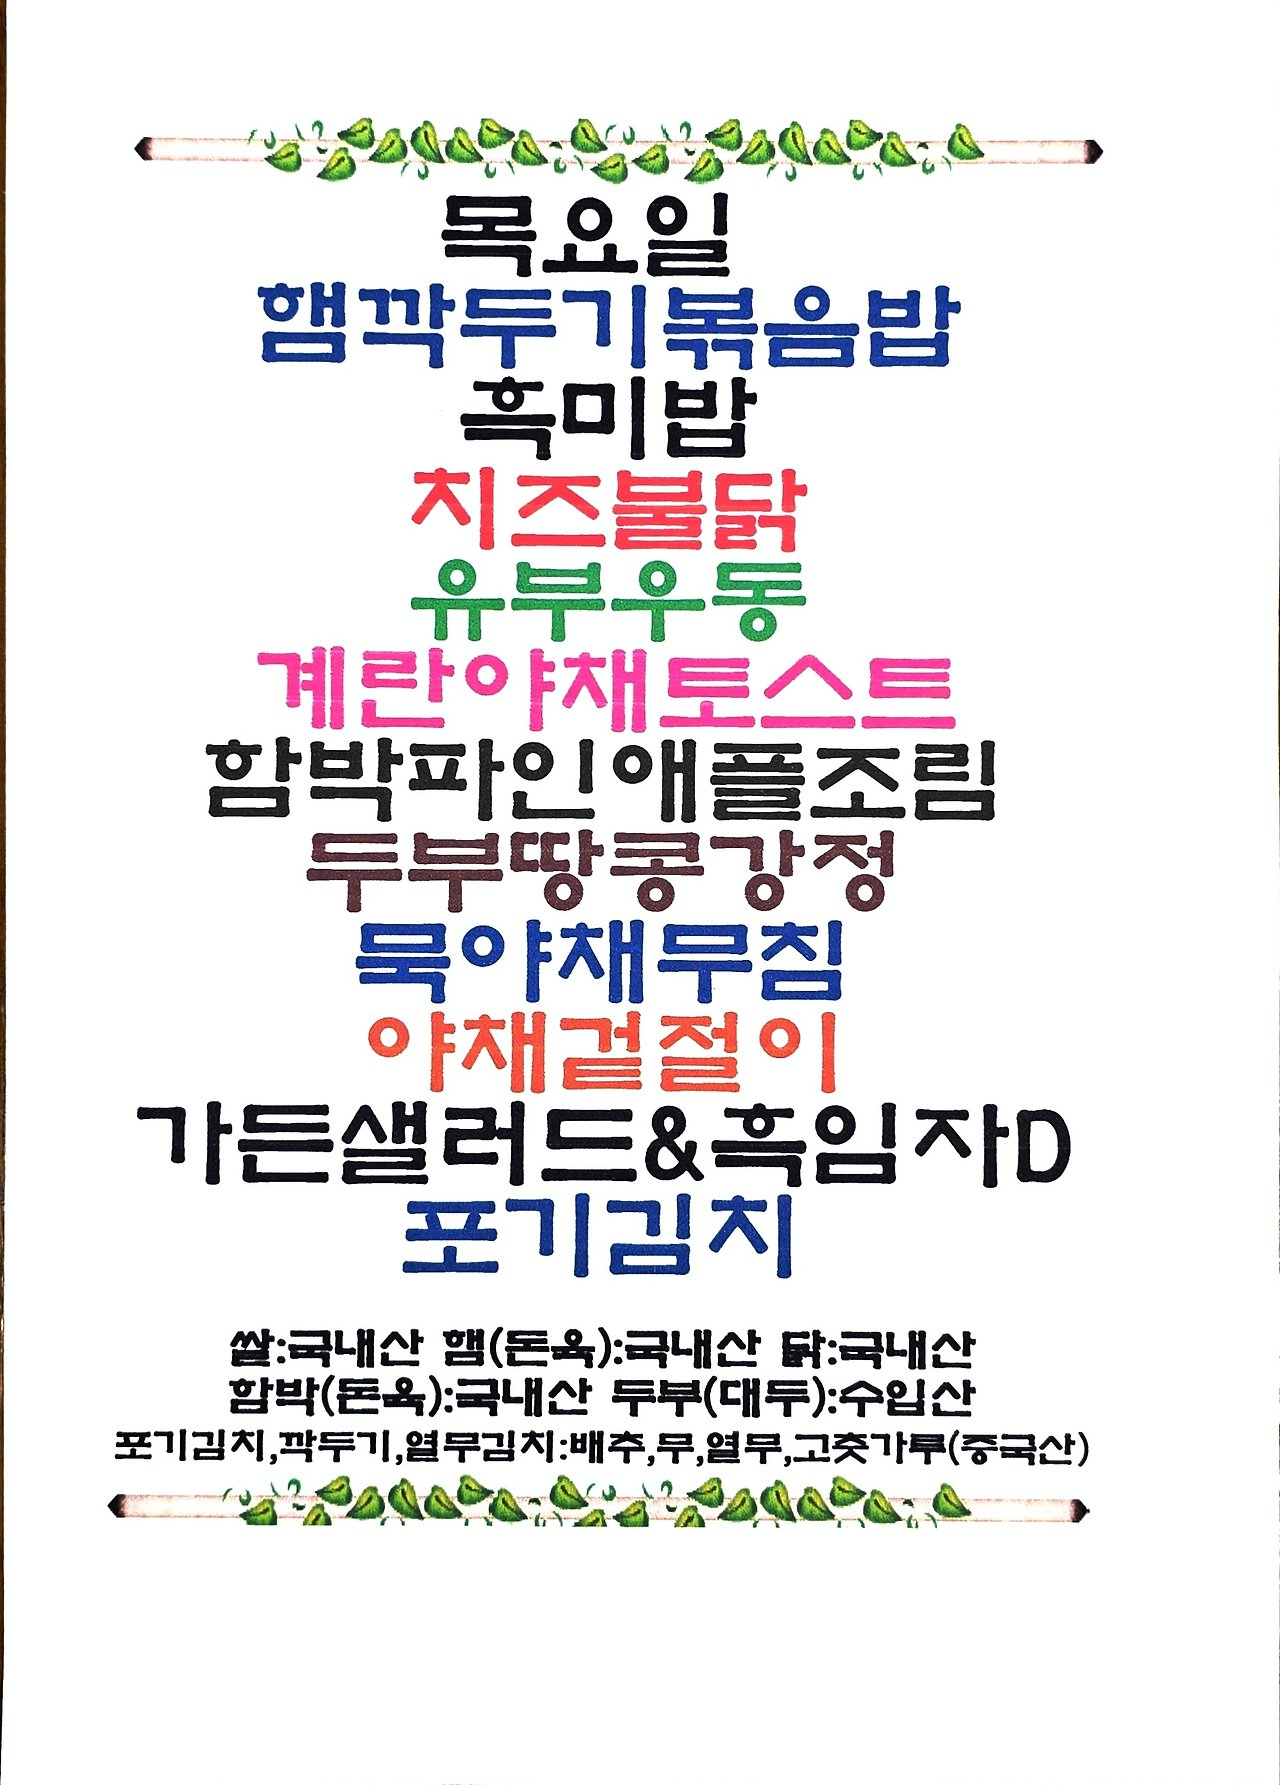
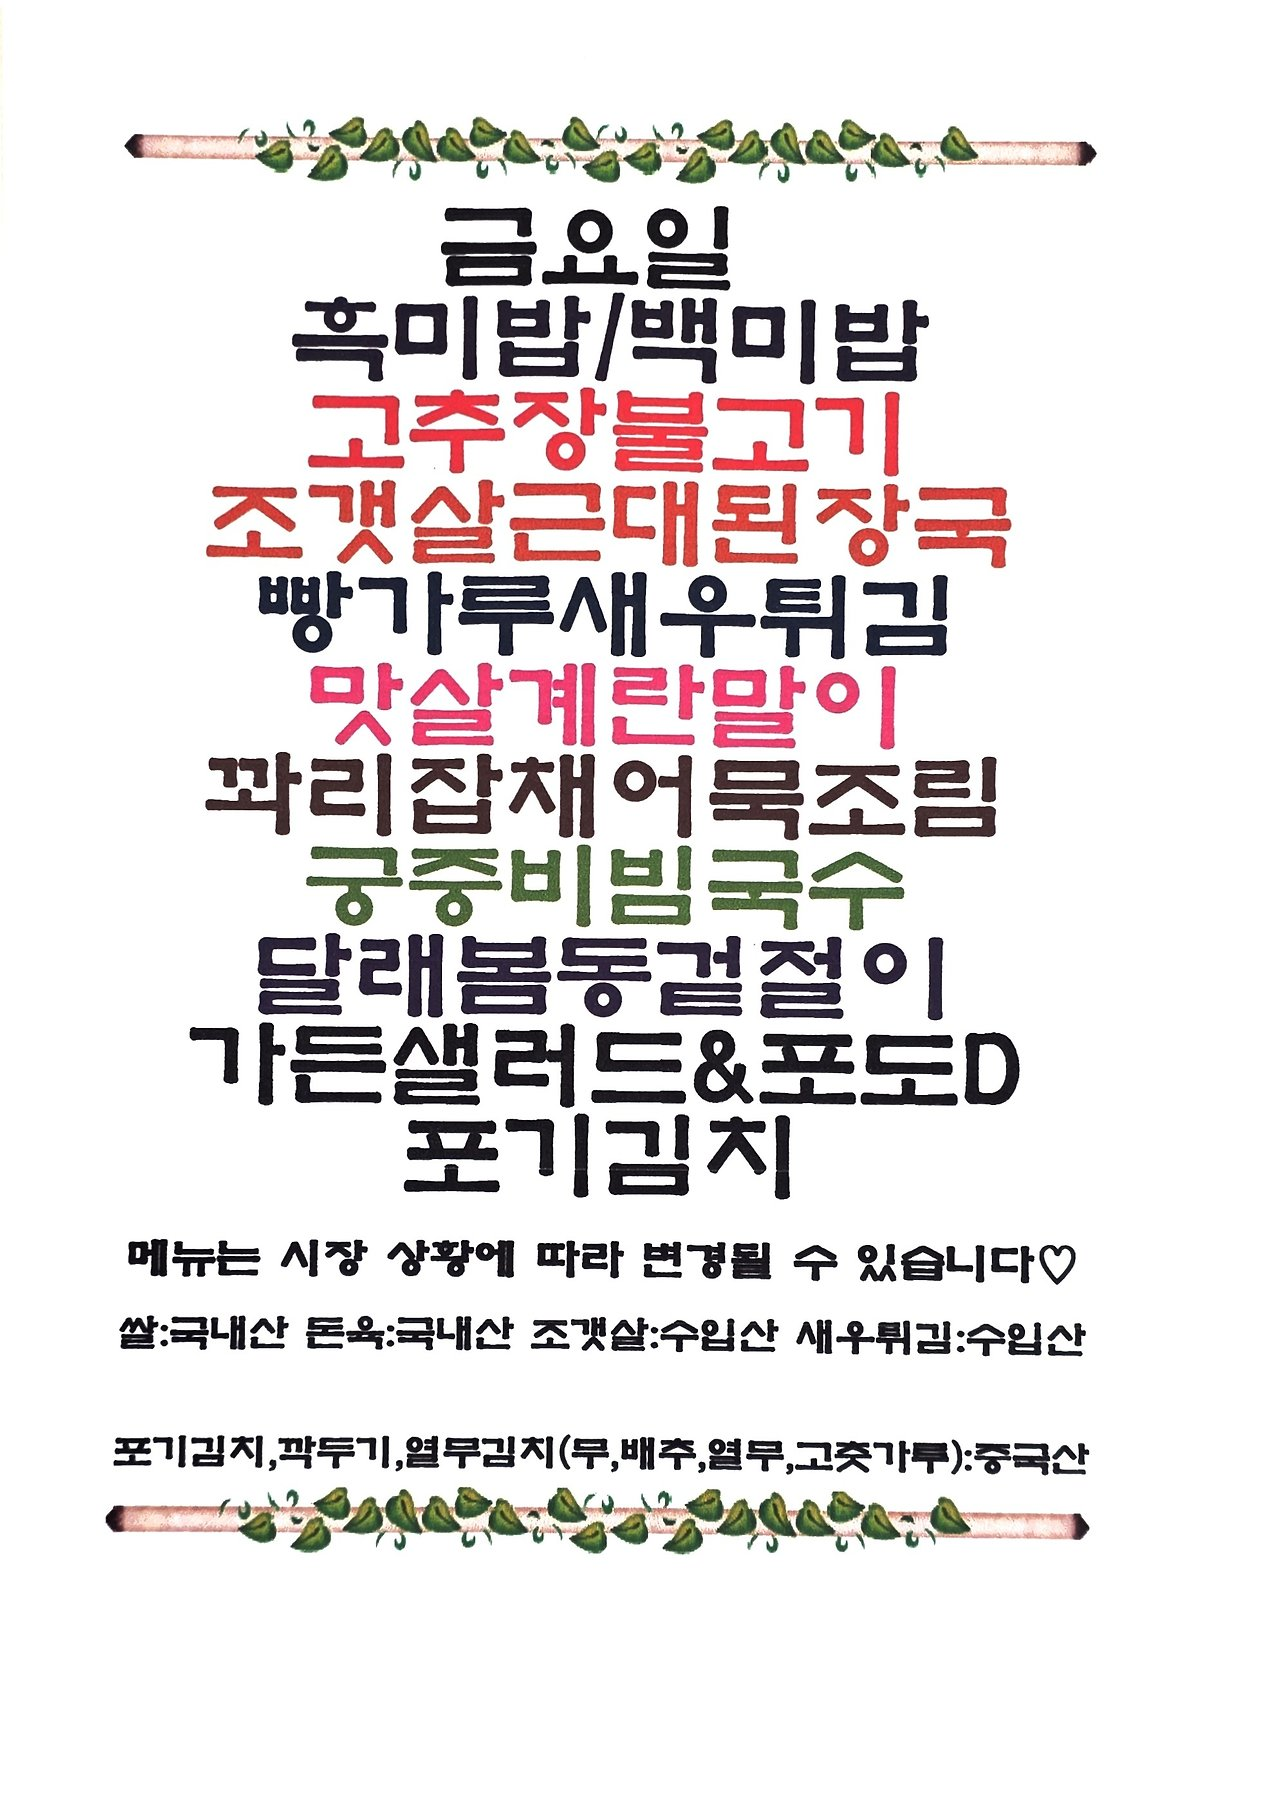
Update menu board assets

Changed region(s): [[0.0938, 0.0616, 0.875, 0.8627], [0.0, 0.0, 0.0312, 0.9244]]

diff --git a/menu-today/index.html b/menu-today/index.html
@@ -209,7 +209,7 @@
 
     <section class="meta-bar">
       <div class="meta-card"><div class="meta-label">기준 날짜</div><div class="meta-value">2026년 11월 6일 금요일</div></div>
-      <div class="meta-card"><div class="meta-label">최종 가져온 시간</div><div class="meta-value">2026-11-06 10:18:00</div></div>
+      <div class="meta-card"><div class="meta-label">최종 가져온 시간</div><div class="meta-value">2026-11-06 10:33:26</div></div>
       <div class="meta-card"><div class="meta-label">확인 완료</div><div class="meta-value">9개 식당</div></div>
       <div class="meta-card"><div class="meta-label">준비중</div><div class="meta-value">3개 채널</div></div>
     </section>
@@ -225,7 +225,7 @@
             <div class="sub">현대테라타워 가산DK</div>
           </div>
         </div>
-        <div class="menu-inline-image"><img src="./images/imeal.png" alt="아이밀 식단 이미지"></div><ul><li>소고기못국</li><li>수제통살치킨버거</li><li>치즈스틱</li><li>크림파스타</li><li>콘샐러드</li><li>숙주나물</li><li>가든샐러드</li><li>볶음김치</li><li>백미밥 / 흑미밥</li><li>부으 기</li><li>타사은료</li></ul>
+        <div class="menu-inline-image"><img src="./images/imeal.png" alt="아이밀 식단 이미지"></div><ul><li>소고기못국</li><li>수제통살치킨버거</li><li>치즈스틱</li><li>크림파스타</li><li>콘샐러드</li><li>숙주나물</li><li>가든샐러드 &amp; 오렌지D</li><li>볶음김치</li><li>백미밥 / 흑미밥</li><li>부으 기</li><li>타사은료</li></ul>
       </article>
 
       <article class="restaurant-card">
@@ -305,7 +305,7 @@
             <div class="sub">스타밸리</div>
           </div>
         </div>
-        <div class="menu-inline-image"><img src="./images/starvalley-food4u-post.png" alt="스타밸리푸드포유 식단 이미지"></div><div class="info-note">오늘 메뉴 미수집 상태입니다.</div>
+        <div class="menu-inline-image"><img src="./images/starvalley-food4u-post.png" alt="스타밸리푸드포유 식단 이미지"></div><ul><li>금요일</li><li>측미밥 / 백미밥</li><li>고주장불고기</li><li>조갱살근대된장국</li><li>빵가루새우튀김</li><li>맛살계란말이</li><li>과리잡재어묵조림</li><li>궁중비빔국수</li><li>달래봄동걸절이</li><li>가든샐러드 &amp; 포도D</li><li>포기김치</li></ul>
       </article>
     </section>
 

diff --git a/guro-menu/index.html b/guro-menu/index.html
@@ -32,7 +32,7 @@
   </header>
   <section class="meta">
     <div><small>기준 날짜</small><strong>2026년 11월 6일 금요일</strong></div>
-    <div><small>최종 갱신</small><strong>2026-11-06 10:18:13</strong></div>
+    <div><small>최종 갱신</small><strong>2026-11-06 10:33:39</strong></div>
     <div><small>등록 식당</small><strong>5개</strong></div>
   </section>
   <div class="notice">공개 카카오 채널의 메뉴 이미지를 자동 수집하고 OCR로 정리합니다. 텍스트에 오타가 있을 수 있으니 식단 이미지를 함께 확인해 주세요.</div>
